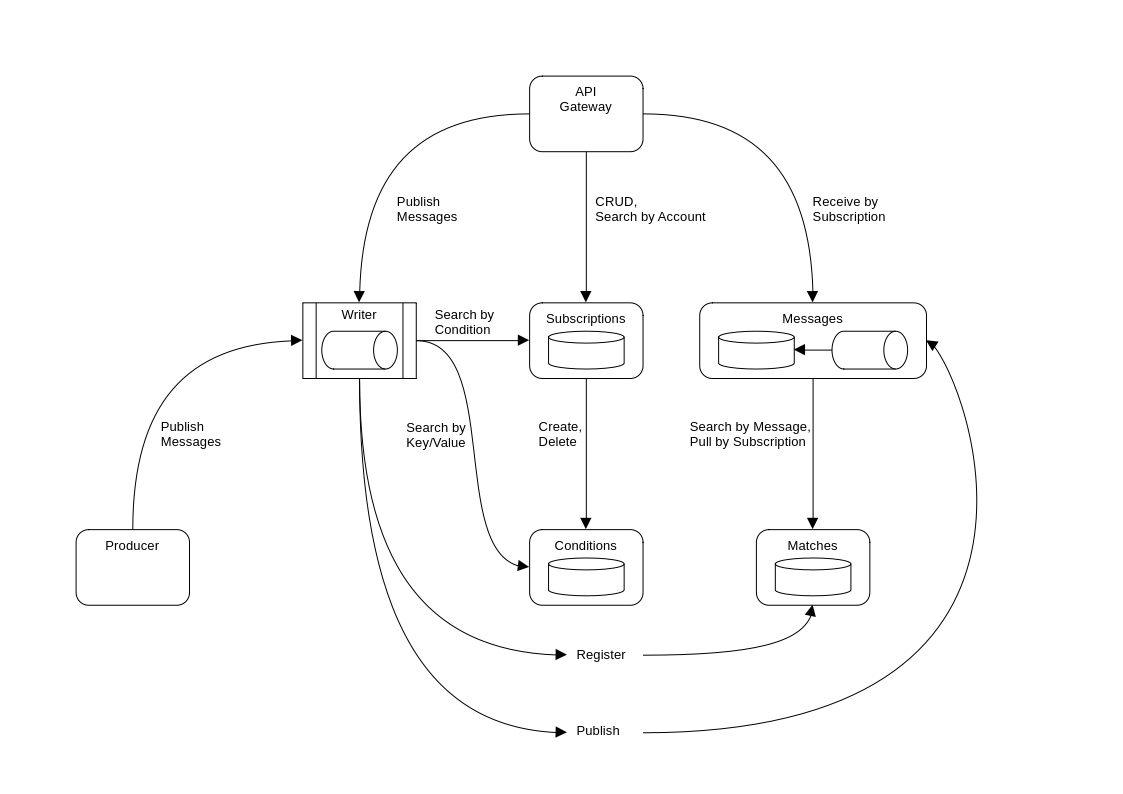
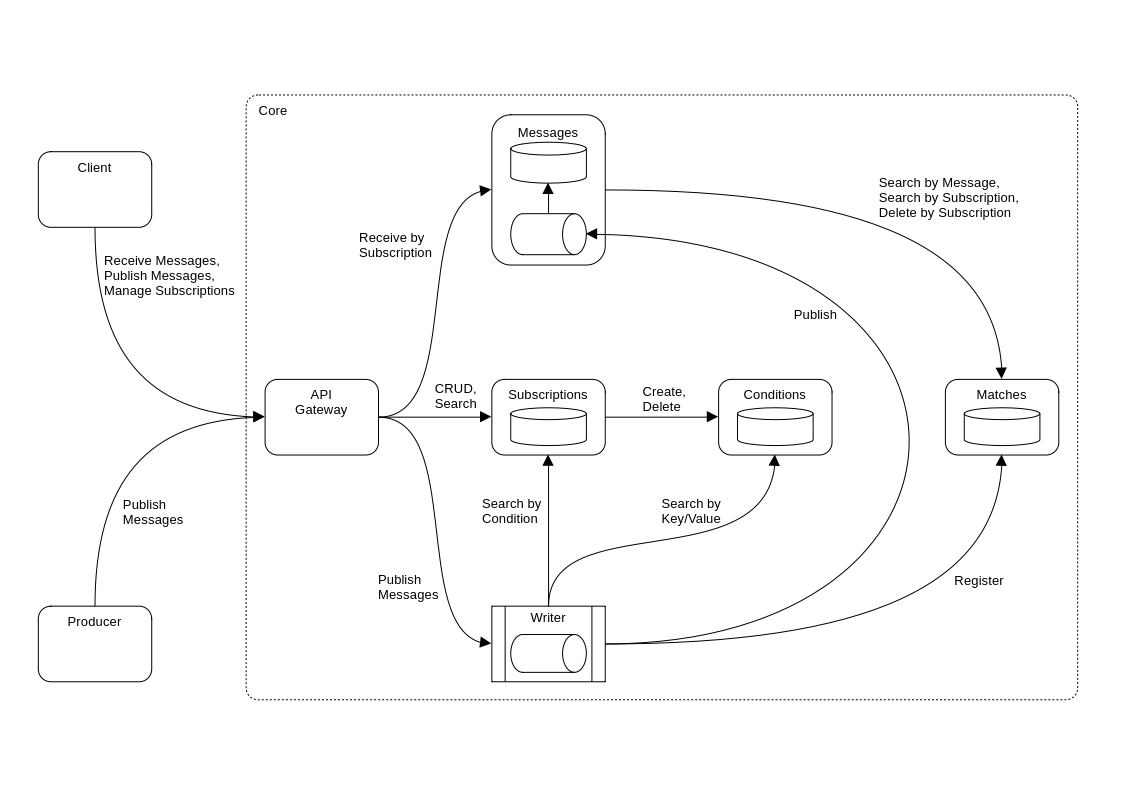
readme update

diff --git a/profile/README.md b/profile/README.md
@@ -98,18 +98,12 @@ TODO
 
 # 5. Design
 
-The core of Awakari consist of: 
-* Storage Services
-  * Conditions, e.g. [Kiwi Tree](https://github.com/awakari/kiwi-tree)
-  * [Subscriptions](https://github.com/awakari/subscriptions)
-  * [Matches](https://github.com/awakari/matches)
-  * [Reader](https://github.com/awakari/reader)
-* Stateless Services
-  * [Writer](https://github.com/awakari/writer)
-  * [Router](https://github.com/awakari/router)
-
-In the SaaS variant there are also:
-* Message Producer, e.g. [RSS](https://github.com/awakari/producer-rss)
+The core of Awakari consist of:
+* [Writer](https://github.com/awakari/writer)
+* [Subscriptions](https://github.com/awakari/subscriptions)
+* Conditions, e.g. [Kiwi Tree](https://github.com/awakari/kiwi-tree)
+* [Matches](https://github.com/awakari/matches)
+* [Messages](https://github.com/awakari/messages) 
 * API Gateway
 
 ![components](components.png)
